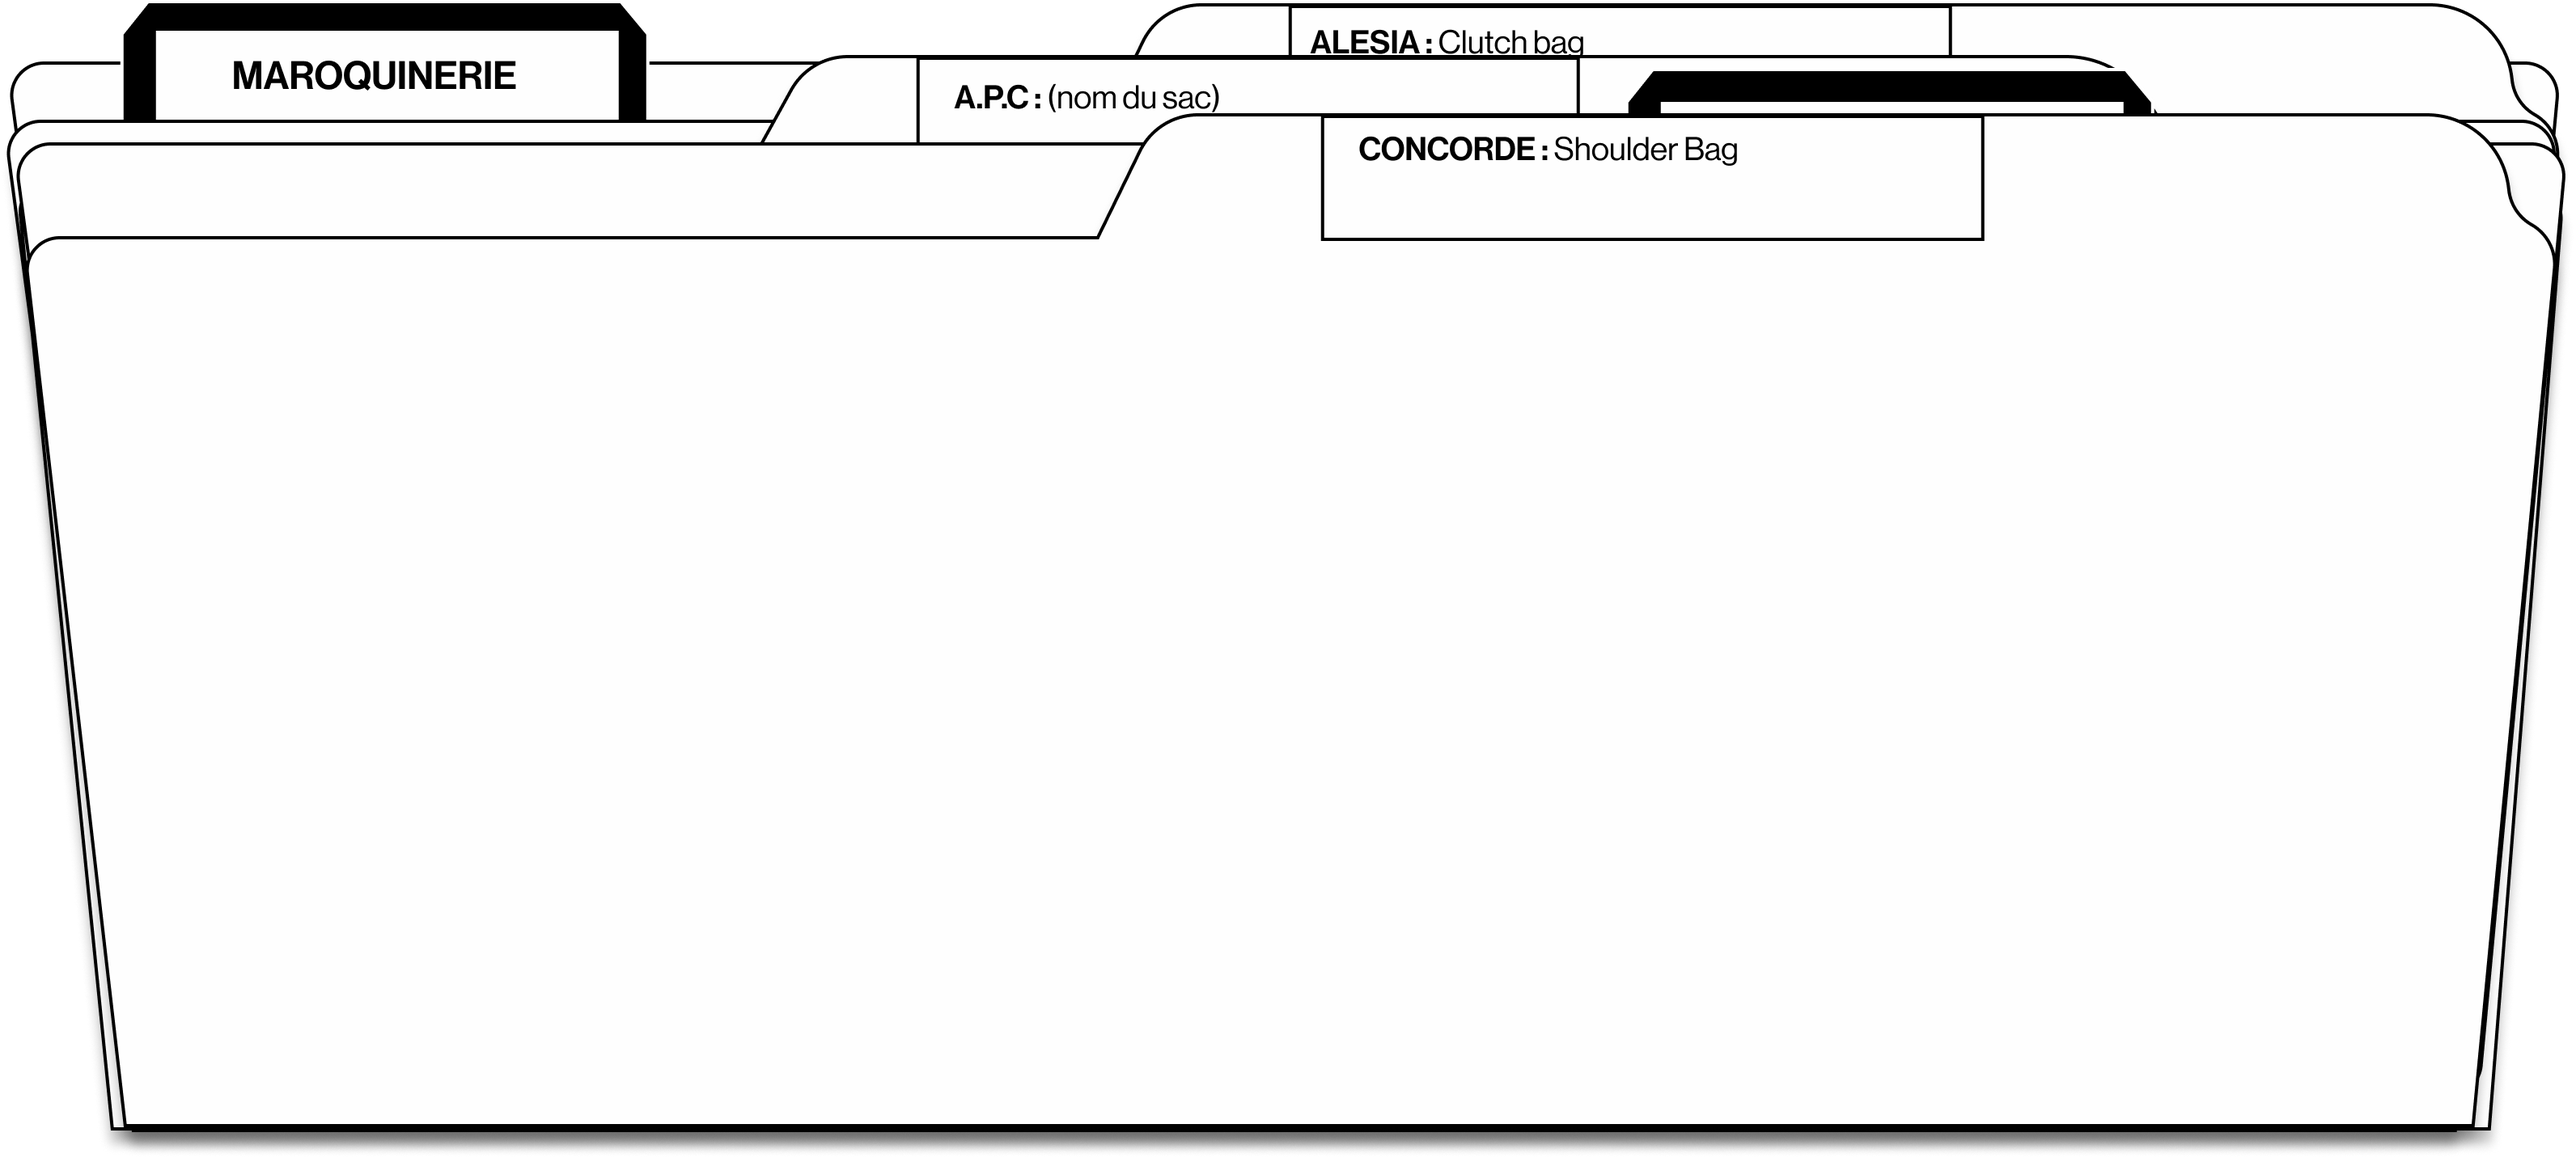
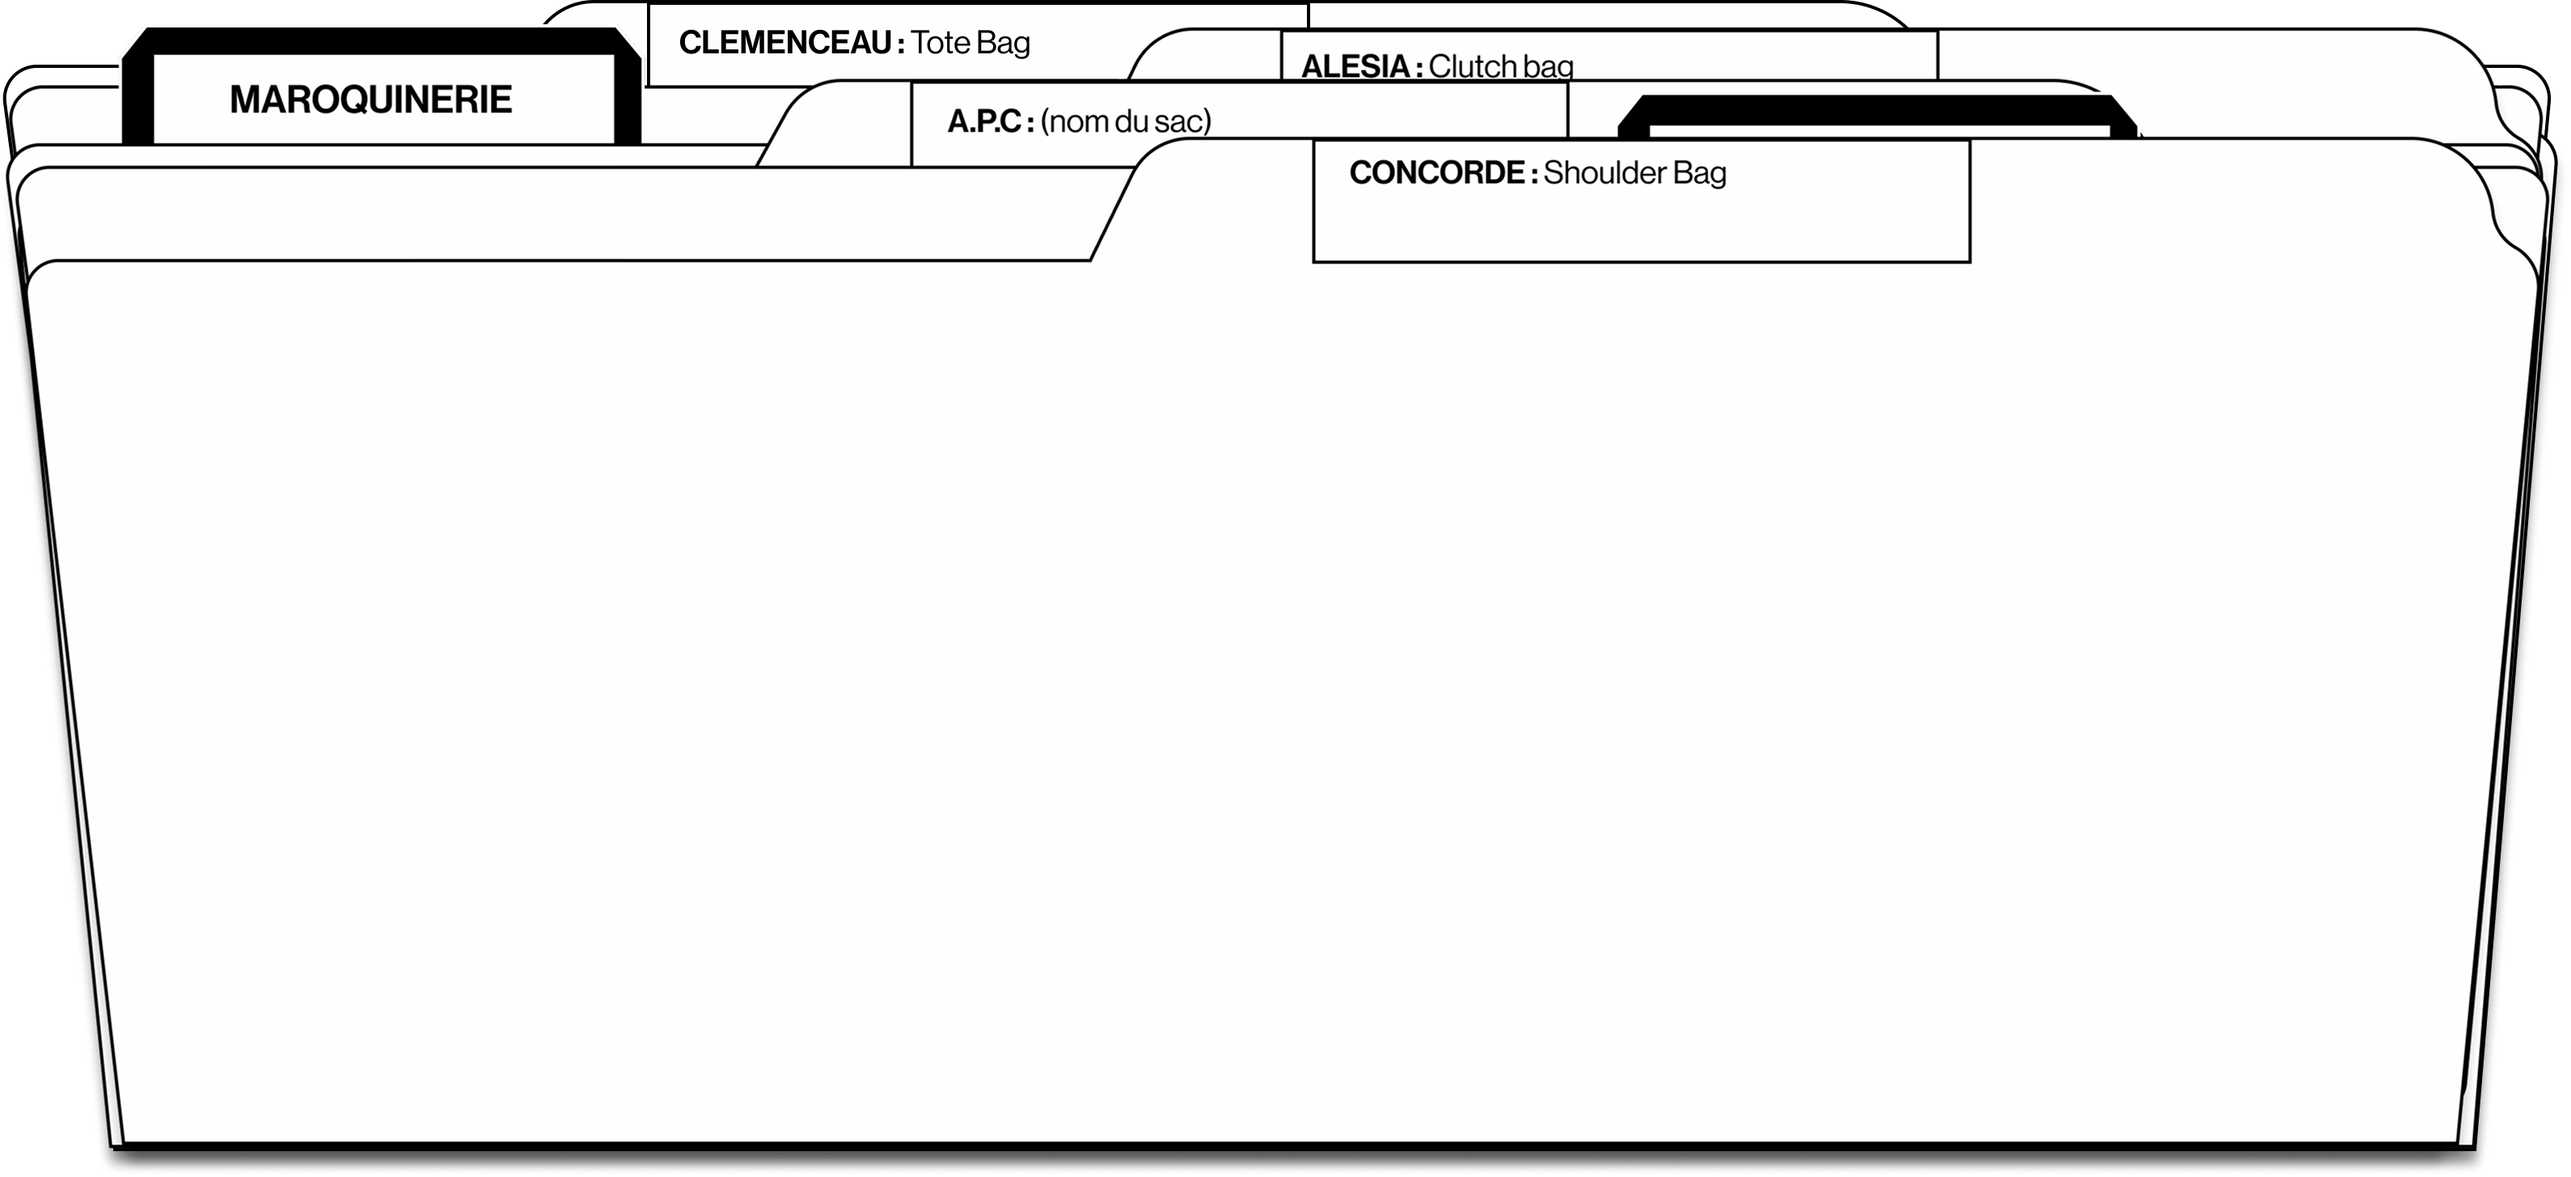
add clemenceau bag

Changed region(s): [[0.0, 0.0, 0.9965, 0.9832], [0.5294, 0.2151, 0.7474, 0.2458], [0.4048, 0.1844, 0.436, 0.2151]]

diff --git a/src/features/Carel/hooks/useFolders.tsx b/src/features/Carel/hooks/useFolders.tsx
@@ -13,6 +13,7 @@ export default function useFolders() {
     const StorageRef = useRef<HTMLImageElement | null>(null);
     const closeFoldersRef = useRef<HTMLImageElement | null>(null);
     const currentRef = useRef<HTMLImageElement | null>(null);
+    const clemenceauRef = useRef<HTMLImageElement | null>(null);
 
     //const defaultRef = useRef<HTMLImageElement | null>(null);
     const navigate = useNavigate()
@@ -37,8 +38,9 @@ export default function useFolders() {
         const maroquinerie = maroquinerieRef.current;
         const chaussures = chaussuresRef.current;
         const closeFolders = closeFoldersRef.current;
+        const clemenceau = clemenceauRef.current;
 
-        if (!footerEl || !storage || !concorde || !apc || !alesia || !maroquinerie || !chaussures || !closeFolders) return;
+        if (!footerEl || !storage || !concorde || !apc || !alesia || !maroquinerie || !chaussures || !closeFolders || !clemenceau) return;
 
         // Reset opacity on wrapper when go back from Carel subpage
         const wrapperEl = document.getElementById("global-wrapper");
@@ -52,10 +54,10 @@ export default function useFolders() {
 
         const ctx = gsap.context(() => {
             
-            const all = [storage, concorde, apc, alesia, chaussures, maroquinerie, closeFolders];
-            const folderelements = [concorde, apc, alesia, chaussures, maroquinerie];
+            const all = [storage, concorde, apc, alesia, chaussures, maroquinerie, closeFolders, clemenceau];
+            const folderelements = [concorde, apc, alesia, chaussures, maroquinerie, clemenceau];
 
-            _setGsapDefaults({ concorde, chaussures, apc, maroquinerie, alesia, closeFolders, storage, all, folderelements });
+            _setGsapDefaults({ concorde, chaussures, apc, maroquinerie, alesia, closeFolders, storage, all, folderelements, clemenceau });
 
             const tl = gsap.timeline({ defaults: { ease: "power2.out" } });
             
@@ -73,6 +75,7 @@ export default function useFolders() {
             tl.to(apc, { y: 245, duration: 0.4 }, 1.08);
             tl.to(maroquinerie, { y: 210, duration: 0.4 }, 1.12);
             tl.to(alesia, { y: 220, duration: 0.4 }, 1.16);
+            tl.to(clemenceau, { y: 220, duration: 0.4 }, 1.20);
 
             tl.eventCallback("onComplete", () => {
                 _setupFolderInteractions();
@@ -118,16 +121,18 @@ export default function useFolders() {
         const al = alesiaRef.current!;
         const m = maroquinerieRef.current!;
         const ch = chaussuresRef.current!;
+        const clem = clemenceauRef.current!;
 
-        [c, a, al, m, ch].forEach((el) => baseY.current.set(el, gsap.getProperty(el, "y") as number));
+        [c, ch, a, m, al, clem].forEach((el) => baseY.current.set(el, gsap.getProperty(el, "y") as number));
 
         _prepareAlpha(c);
         _prepareAlpha(a);
         _prepareAlpha(al);
         _prepareAlpha(m);
         _prepareAlpha(ch);
+        _prepareAlpha(clem);
 
-        const ORDER = [c, ch,  a, m, al]; 
+        const ORDER = [c, ch,  a, m, al, clem]; 
 
 
         const target = windowRef.current!;
@@ -236,6 +241,7 @@ export default function useFolders() {
         closeFoldersRef, 
         maroquinerieRef,
         chaussuresRef,
+        clemenceauRef,
     };
 }
 
@@ -279,16 +285,18 @@ interface GsapDefaults {
     alesia: HTMLImageElement;
     closeFolders: HTMLImageElement;
     storage: HTMLImageElement;
+    clemenceau: HTMLImageElement;
     all: HTMLImageElement[];
     folderelements: HTMLImageElement[];
 }
 
-function _setGsapDefaults({ concorde, chaussures, apc, maroquinerie, alesia, closeFolders, storage, all, folderelements }: GsapDefaults) { 
+function _setGsapDefaults({ concorde, chaussures, apc, maroquinerie, alesia, closeFolders, storage, clemenceau, all, folderelements }: GsapDefaults) { 
     gsap.set(concorde, { zIndex: 100 });
     gsap.set(chaussures, { zIndex: 90 });
     gsap.set(apc, { zIndex: 80 });
     gsap.set(maroquinerie, { zIndex: 70 });
     gsap.set(alesia, { zIndex: 60 });
+    gsap.set(clemenceau, { zIndex: 40 });
     gsap.set(closeFolders, { zIndex: 50 });
     gsap.set(storage, { zIndex: 120 });
     gsap.set(all, {

diff --git a/src/features/Carel/components/CarelDetail.tsx b/src/features/Carel/components/CarelDetail.tsx
@@ -1,7 +1,8 @@
 import React, { useEffect } from 'react';
 import Colors from '../../../entities/Background.ts';
 import useDetail from '../hooks/useDetail.tsx';
-import { useNavigate, useParams } from 'react-router-dom';
+import { useParams } from 'react-router-dom';
+import useNavigation from '../hooks/useNavigation.tsx';
 
 import open_folder from '../static/images/open_folder.png';
 import back_arrow from '../static/images/back_arrow.png';
@@ -24,7 +25,6 @@ export default function CarelDetail({
   setTextColor,
 }: CarelDetailProps) {
     const { name } = useParams<{ name: string }>();
-    const navigate = useNavigate()
 
     useEffect(() => {
         setAcceuil(Colors.Black);
@@ -33,6 +33,7 @@ export default function CarelDetail({
     }, [setAcceuil, setLogoFanch, setTextColor]);
 
     const { left, right } = useDetail();
+    const { currentPage, goNext, goPrev, haveNext } = useNavigation( {page: name || ""} );
 
     return (
         <div className="absolute w-full h-full bg-black overflow-hidden z-999999">
@@ -41,9 +42,17 @@ export default function CarelDetail({
             <img
                 src={back_arrow}
                 alt="Back"
-                className="absolute top-0 left-0 h-9 w-auto cursor-pointer z-50"
-                onClick={() => navigate("/carel")}
+                className="absolute top-10 left-0 h-9 w-auto cursor-pointer z-50"
+                onClick={() => goPrev()}
             />
+            {haveNext && (
+                <img
+                src={back_arrow}
+                alt="Next"
+                className="absolute top-10 right-0 h-9 w-auto cursor-pointer z-50 scale-x-[-1]"
+                onClick={() => goNext()}
+            />
+            )}
 
             <div className="h-full w-full flex items-center justify-center">
                 <div className="w-full h-full flex items-stretch justify-center scene">

diff --git a/src/pages/carel.tsx b/src/pages/carel.tsx
@@ -8,6 +8,7 @@ import useFolders from "../features/Carel/hooks/useFolders.tsx";
 import maroquinerie from "../features/Carel/static/images/maroquinerie.png";
 import chaussures from "../features/Carel/static/images/chaussures.png";
 import close_folders from "../features/Carel/static/images/close_folders.png";
+import clemenceau from "../features/Carel/static/images/clemenceau.png";
 
 type BackgroundColor = typeof Colors[keyof typeof Colors];
 
@@ -18,7 +19,7 @@ interface carelProps {
 }
 
 export default function Carel({ setAcceuil, setLogoFanch, setTextColor }: carelProps) {
-  const { windowRef, concordeRef, apcRef, alesiaRef, StorageRef, maroquinerieRef, chaussuresRef, closeFoldersRef } = useFolders();
+  const { windowRef, concordeRef, apcRef, alesiaRef, StorageRef, maroquinerieRef, chaussuresRef, closeFoldersRef, clemenceauRef } = useFolders();
 
   useEffect(() => {
     setAcceuil(Colors.Black);
@@ -37,6 +38,7 @@ export default function Carel({ setAcceuil, setLogoFanch, setTextColor }: carelP
       <img ref={apcRef} src={APC} data-folder="apc" alt="APC" className="absolute w-[70vw] h-auto"/>
       <img ref={maroquinerieRef} src={maroquinerie} data-folder="maroquinerie" alt="Maroquinerie" className="absolute w-[70vw] h-auto"/>
       <img ref={alesiaRef} src={Alesia} data-folder="alesia" alt="Alesia" className="absolute w-[70vw] h-auto"/>
+      <img ref={clemenceauRef} src={clemenceau} data-folder="clemenceau" alt="Clemenceau" className="absolute w-[70vw] h-auto"/>
       {/*<img ref={defaultRef} src={defaultFolder} alt="Default Folders" className="absolute w-[70vw] h-auto" />*/}
     </div>
   );

diff --git a/src/features/Carel/hooks/useDetail.tsx b/src/features/Carel/hooks/useDetail.tsx
@@ -3,30 +3,23 @@ import gsap from "gsap";
 import { useContainedImageInsets } from "./useContainsImage.tsx";
 
 export default function useDetail() {
-
-
   const INSETS = { top: 8, right: 10, bottom: 8, left: 12 };
   const left = useContainedImageInsets(INSETS, "right");
 
   const INSETS_RIGHT = { ...INSETS, left: INSETS.right, right: INSETS.left };
   const right = useContainedImageInsets(INSETS_RIGHT, "left");
 
+  // navigation animation
   useLayoutEffect(() => {
     const rightEl = right.containerRef.current;
     const leftEl = left.containerRef.current;
     const wrapperEl = document.getElementById("global-wrapper");
-    const headerEl = document.getElementById("header");
-    const footerEl = document.getElementById("footer");
 
     if (!rightEl || !leftEl || !wrapperEl) return;
     
 
     const ctx = gsap.context(() => {
       gsap.set(wrapperEl, { opacity: 0});
-      // a voir ici 
-      // gsap.set(headerEl, {position:"fixed", width:"100%", height:"5em", zIndex:1});
-      // gsap.set(footerEl, {position:"relative",zIndex:1});
-      // gsap.set([leftEl, rightEl], {zIndex:9999});
 
       const tl = gsap.timeline({ defaults: { ease: "power2.inOut" } });
 

diff --git a/src/features/Carel/hooks/useNavigation.tsx b/src/features/Carel/hooks/useNavigation.tsx
@@ -1,0 +1,40 @@
+import { useState } from "react";
+import { useNavigate } from "react-router-dom";
+
+const PageIndex = {
+    concorde: 1,
+    clemenceau: 0,
+    maroquinerie: 0, 
+    chaussures: 0,
+    apc: 0,
+};
+
+interface NavigationProps{
+    page: string;
+}
+
+export default function useNavigation({page}: NavigationProps) {
+    const maxPage = PageIndex[page as keyof typeof PageIndex] || 0;
+    const [currentPage, setCurrentPage] = useState<number>(0);
+    const haveNext = currentPage < maxPage;
+    const havePrev = currentPage > 0;
+    const navigate = useNavigate()
+
+    const goNext = () => {
+        if (haveNext) {
+            setCurrentPage(currentPage + 1);
+        }
+    };
+
+    const goPrev = () => {
+        if (havePrev) {
+            setCurrentPage(currentPage - 1);
+        }else{
+            navigate("/carel");
+        }
+    };
+
+    return { currentPage, goNext, goPrev, haveNext };
+
+    
+}

diff --git a/src/features/Carel/hooks/useContainsImage.tsx b/src/features/Carel/hooks/useContainsImage.tsx
@@ -1,8 +1,9 @@
 import { useLayoutEffect, useRef } from "react";
 
-type Insets = { top: number; right: number; bottom: number; left: number }; // en %
+type Insets = { top: number; right: number; bottom: number; left: number }; 
 type AlignX = "left" | "center" | "right";
 
+// Hook to manage image containment with specified insets
 export function useContainedImageInsets(insets: Insets, alignX: AlignX = "center") {
   const containerRef = useRef<HTMLDivElement | null>(null);
   const imgRef = useRef<HTMLImageElement | null>(null);
